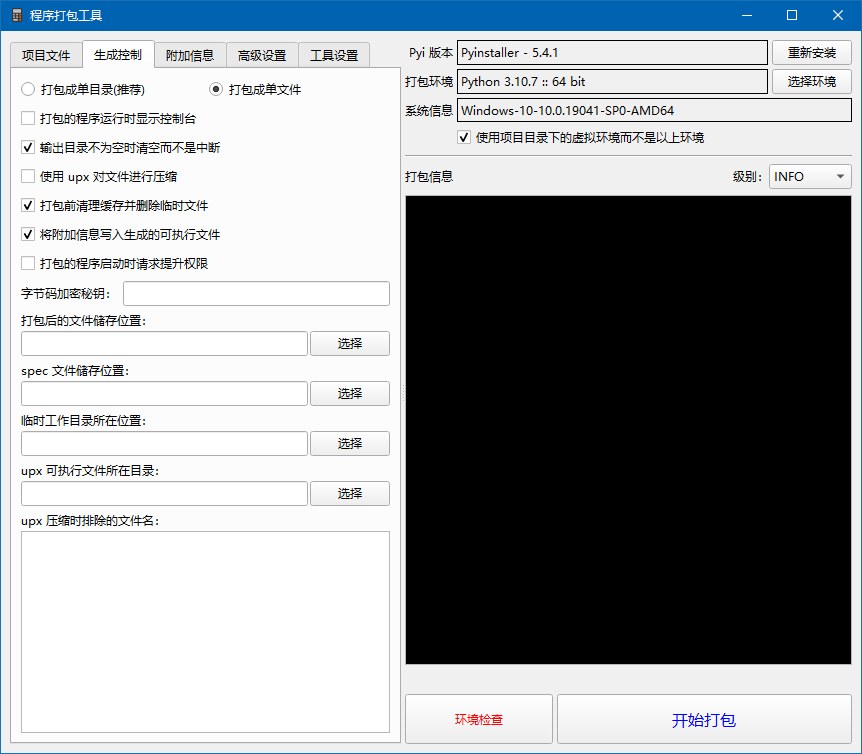
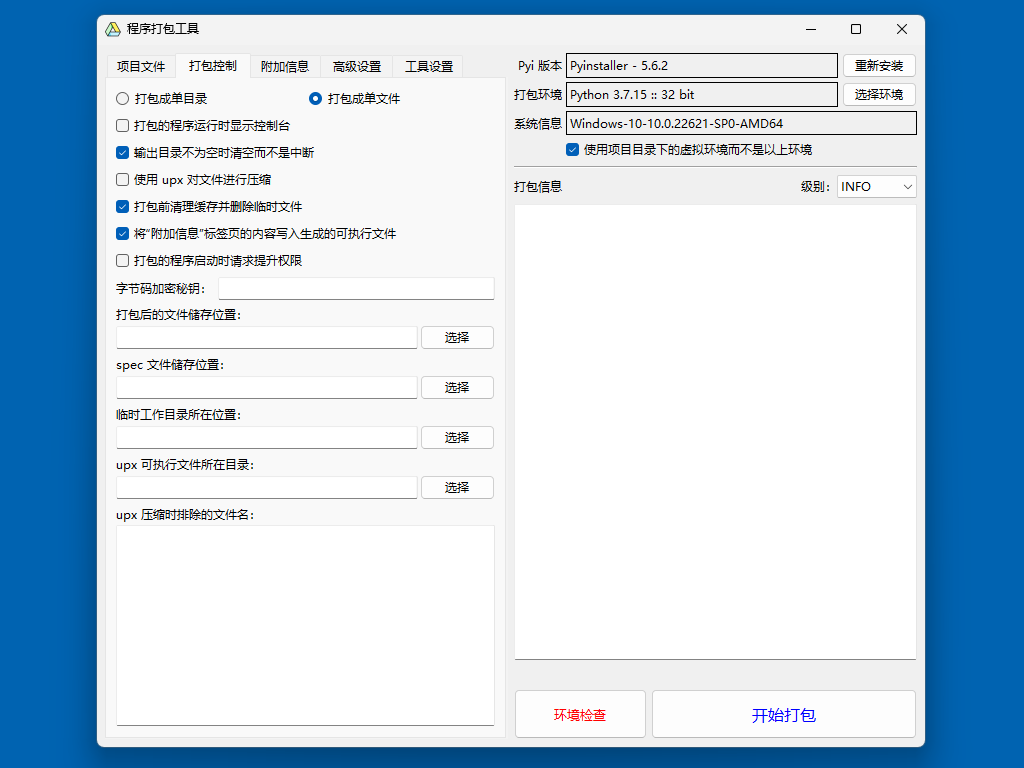
更新程序截图和 README.md

diff --git a/README.md b/README.md
@@ -72,6 +72,12 @@ Python 工具箱 - Awespykit
 
 ## 程序截图
 
+> ### 工具箱启动窗口
+
+![启动窗口](./images/MainEntrance.png)
+
+<br/>
+
 > ### 包管理器：封装了 pip 命令
 
 - 提供多 Python 环境的包管理，免于用命令行管理的混乱
